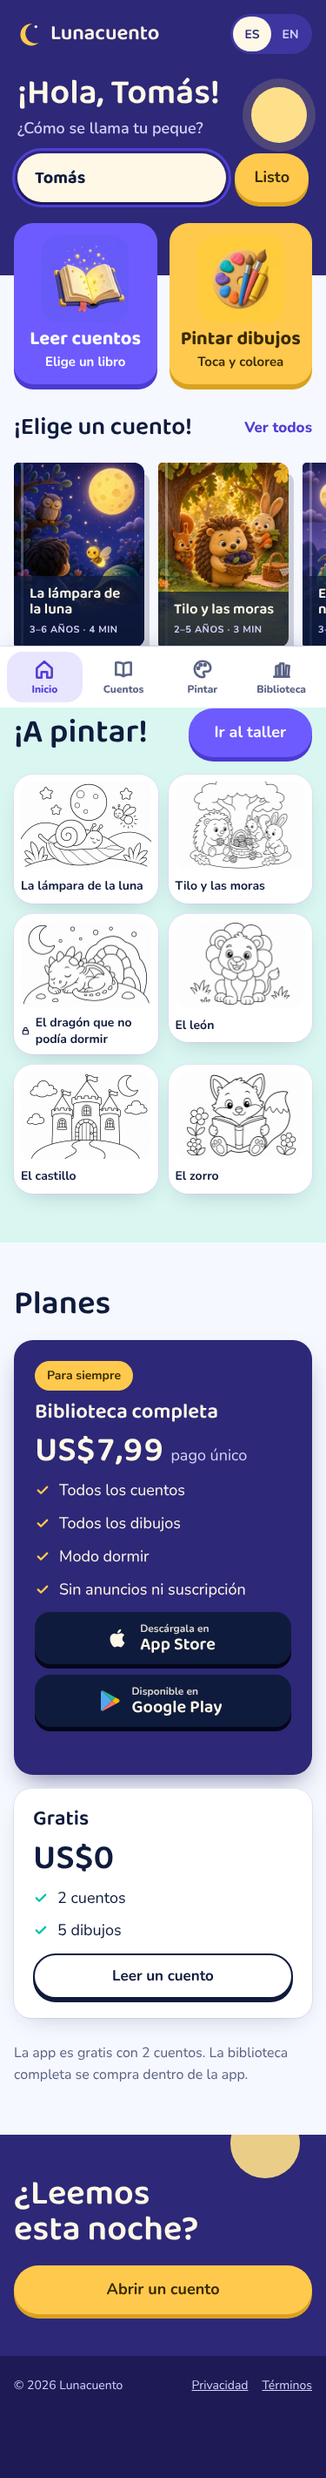
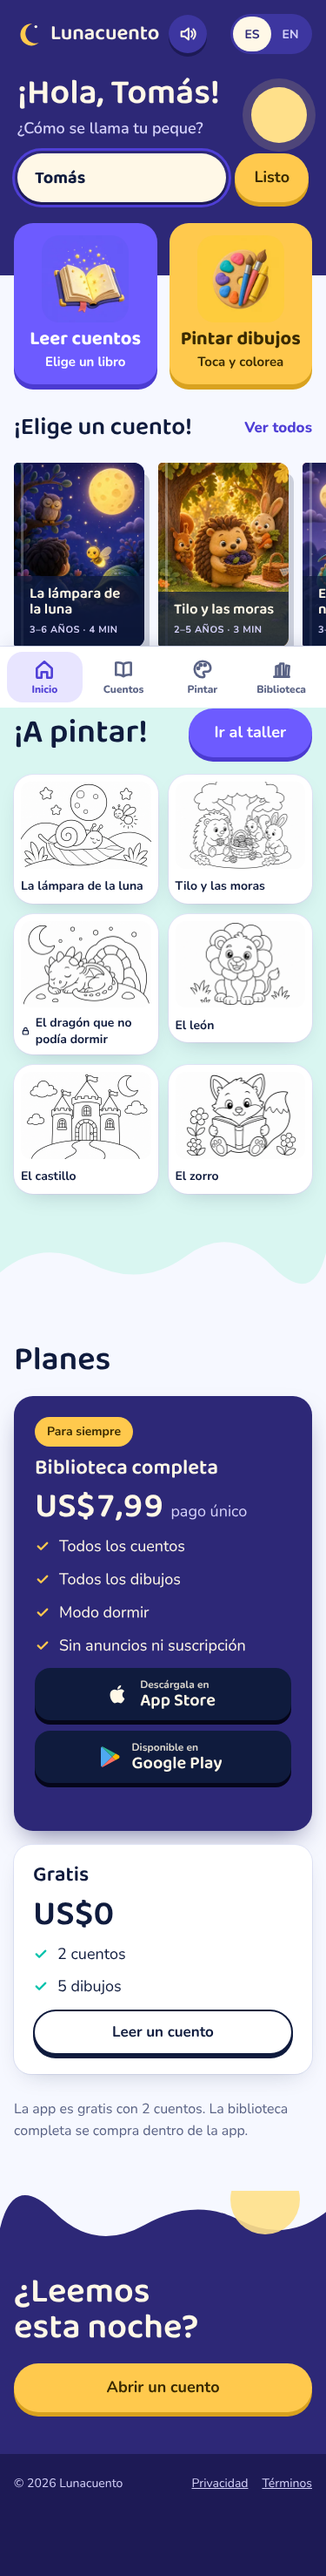
Páginas: presupuesto y prompts (sin generar), final con teclado, encabezado tablet, pruebas de sonido y final, docs
Claude-Session: https://claude.ai/code/session_01NsKeDMnxH8TrdVoQXG24KL

diff --git a/src/app/globals.css b/src/app/globals.css
@@ -232,7 +232,7 @@ a.bk:active { transform: translateY(-6px) rotate(-1deg); }
 .final { background: var(--night); color: var(--moon-text); position: relative; overflow: hidden; }
 .final .wrap { display: flex; flex-wrap: wrap; align-items: center; justify-content: space-between; gap: 28px; padding-top: 90px; padding-bottom: 90px; position: relative; z-index: 1; }
 .final h2 { font-size: clamp(40px, 5.4vw, 64px); line-height: 1.02; }
-.final .moon { position: absolute; right: 8%; top: -40px; width: 120px; height: 120px; border-radius: 50%; background: var(--moon); opacity: .9; }
+.final .moon { position: absolute; right: 30%; top: 96px; width: 120px; height: 120px; border-radius: 50%; background: var(--moon); opacity: .9; }
 .site-footer { background: var(--night-3); color: var(--moon-muted); }
 .site-footer .wrap { display: flex; flex-wrap: wrap; gap: 24px; justify-content: space-between; align-items: center; padding-top: 28px; padding-bottom: calc(28px + env(safe-area-inset-bottom, 0px)); font-size: 15px; }
 .site-footer nav { display: flex; gap: 24px; }
@@ -291,7 +291,7 @@ a.bk:active { transform: translateY(-6px) rotate(-1deg); }
   .plan .price { font-size: 40px; }
   .final .wrap { padding-top: 48px; padding-bottom: 48px; flex-direction: column; align-items: stretch; gap: 20px; }
   .final .btn { width: 100%; min-height: 56px; font-size: 18px; }
-  .final .moon { width: 80px; height: 80px; top: -30px; }
+  .final .moon { width: 80px; height: 80px; top: 64px; right: 6%; }
   .site-footer .wrap { gap: 8px 16px; font-size: 14px; padding-top: 12px; padding-bottom: calc(12px + env(safe-area-inset-bottom, 0px)); }
   .site-footer nav { gap: 16px; }
 }
@@ -678,3 +678,6 @@ a.bk:hover::after, a.bk:focus-visible::after, a.bk:active::after { opacity: .95;
   .chip[aria-pressed="true"] { background: var(--violet); border-color: var(--violet); }
   .shelf-more .btn-line { background: #FFFDF8; color: #0F1B3D; box-shadow: 0 4px 0 #6B6FD0; border-color: #0F1B3D; }
 }
+
+/* Tablet: el encabezado con el botón de sonido no debe desbordar */
+@media (min-width: 761px) and (max-width: 1000px) { .site-header .bar { gap: 14px; } .navlinks { gap: 16px; font-size: 16px; } }

diff --git a/src/components/Reader.tsx b/src/components/Reader.tsx
@@ -44,10 +44,19 @@ const easeOut = (x: number) => 1 - Math.pow(1 - x, 3);
  */
 function Art({ story, index, where, lang }: { story: Story; index: number; where: string; lang: Lang }) {
   const page = story.pages[index];
+  const gen = ilu(`pagina-${story.id}-${index + 1}`); // generada con gpt-image-2 (grupo "paginas"); si falta, escena vectorial
   const html = useMemo(
     () => (page.image ? "" : sceneSVG(page.scene, `${story.id}-${index}`, `${where}-${story.id}-${index}`)),
     [page, story.id, index, where],
   );
+  if (gen && !page.image) {
+    return (
+      <div className="art">
+        {/* eslint-disable-next-line @next/next/no-img-element */}
+        <img src={gen.src} srcSet={gen.srcset} sizes="(min-width: 900px) 560px, 100vw" width={gen.width} height={gen.height} alt="" loading="eager" decoding="async" />
+      </div>
+    );
+  }
   if (page.image) {
     return (
       <div className="art">
@@ -264,7 +273,16 @@ export default function Reader({ lang, t, story }: { lang: Lang; t: Dict; story:
 
   /** Pasa de página con animación (flechas, teclado, toque en los lados, narración). */
   const turnPage = useCallback((dir: Dir, auto = false) => {
-    if (turnRef.current || !canTurn(dir)) return false;
+    if (turnRef.current) return false;
+    if (dir === 1 && pageRef.current >= last) {
+      // Pasar de la última página (flecha, toque o fin de la narración) abre el final del cuento
+      setPlaying(false);
+      setActive(-1);
+      setFinale(true);
+      playSound("celebrate");
+      return true;
+    }
+    if (!canTurn(dir)) return false;
     if (reduced) {
       playSound("page");
       setActive(-1);
@@ -278,7 +296,7 @@ export default function Reader({ lang, t, story }: { lang: Lang; t: Dict; story:
     // Cuando la hoja ya está montada (useLayoutEffect de abajo), arranca la animación.
     requestAnimationFrame(() => settle(1));
     return true;
-  }, [canTurn, reduced, settle]);
+  }, [canTurn, reduced, settle, last]);
 
   // Posición inicial de la hoja al montarse (antes de pintar, sin parpadeo).
   useLayoutEffect(() => {

diff --git a/src/components/reader.css b/src/components/reader.css
@@ -174,6 +174,10 @@
   .r-fav { display: none; }
   .r-sleep-m[aria-pressed="true"] { background: var(--moon-text); color: var(--night); }
   .r-timer-m { display: inline-flex; flex: none; }
+  .r-timer-m select { min-height: 44px; max-width: 92px; padding: 0 8px; font-size: 14px; text-overflow: ellipsis; }
+  .r-top { gap: 8px; }
+  .r-top .round { width: 44px; height: 44px; flex: none; }
+  .r-title h1 { overflow: hidden; text-overflow: ellipsis; white-space: nowrap; }
   .stage { padding: 6px 16px; align-items: flex-start; }
   .book { width: 100%; transform: none !important; }
   .spread { display: none; }

diff --git a/docs/presupuesto-ilustraciones.md b/docs/presupuesto-ilustraciones.md
@@ -47,3 +47,23 @@ Cota pesimista del plan B (si las imágenes no cuadradas costaran como las cuadr
 1. Tu autorización explícita (y qué plan: A, B o C, y el tope).
 2. Confirmar el precio vigente (o permitir `platform.openai.com` en la red de la sesión para que lo lea).
 3. Poder llamar a la API: **esta sesión no resuelve `api.openai.com` y no tiene `OPENAI_API_KEY`**. O bien permites ese host y añades la clave como secreto del entorno, o yo dejo listo `scripts/generar-ilustraciones.mjs` y lo ejecutas tú en tu máquina.
+
+## Ronda 2 · Ilustraciones de las páginas (18 imágenes) — PENDIENTE DE AUTORIZACIÓN
+
+**No se ha generado nada.** Los prompts ya están en `scripts/ilustraciones.config.mjs` (grupo `paginas`, mismo estilo de lana/arcilla que el resto).
+
+| Qué | Cantidad | Tamaño | Calidad | Estimado |
+|---|---|---|---|---|
+| Páginas de 3 cuentos (La lámpara de la luna, Tilo y las moras, El dragón que no podía dormir) × 6 páginas | 18 | 1536×1024 | alta | 18 × 0,165 = **US$2,97** |
+| Con 2× reintentos | | | | US$5,94 |
+| Cota pesimista (si costaran como cuadradas) | | | | 18 × 0,211 = US$3,80 |
+
+El contador del script lleva ya ~US$2,48 de la ronda anterior (+0,65 de las pruebas): el tope de US$8 alcanza para las 18 sin reintentos y para unos 10 reintentos. Precios **no verificados**: compáralos con tu facturación y ajusta `--factor-costo`.
+
+Cuando lo autorices:
+
+```bash
+node --env-file=.env.local scripts/generar-ilustraciones.mjs --solo paginas
+```
+
+(En una sesión de Claude Code con la clave como network secret: añade `--clave-por-proxy`.) Salen a `public/ilustraciones/pagina-<cuento>-<n>.webp` + manifiesto. El lector ya usa estas imágenes en cuanto existen y, mientras tanto, muestra la escena vectorial provisoria.

diff --git a/CLAUDE.md b/CLAUDE.md
@@ -120,3 +120,12 @@ Tokens (modo claro; el modo oscuro usa los mismos nombres en `globals.css`):
 
 - Cada cuento: 6 páginas, ES y EN, un valor/tema, rango de edad, minutos de lectura, color de tapa, página de portada y dibujo para colorear.
 - Revisar cada texto antes de publicarlo: frases cortas, vocabulario simple, final tranquilo (son cuentos para antes de dormir).
+
+## Emoción y acabado premium (ronda 5)
+
+- **Sonido** (`src/lib/sound.ts`, `docs/sonidos.md`): todo sintetizado con Web Audio (sin archivos ni licencias de terceros). Nada suena antes de la primera interacción; botón on/off en el encabezado y el lector (`lc_sound`). Ganchos: `data-sound` en botones, `playSound(nombre)`.
+- **Apertura del libro**: al tocar una portada del estante, `BookFlyer` la hace volar al centro; el lector la recibe cerrada, flota ~1,1 s con brillo y la tapa se abre en ~1,4 s con destellos. Con `prefers-reduced-motion`: sin vuelo, sin giros.
+- **Lector con escenografía** (`ReaderScene`): fondo nocturno desde la portada, viñeta, estrellas, luciérnagas, mesa de madera; modo dormir apaga la escena. Al terminar: pantalla final con "Leer otra vez" y "Colorear".
+- **Modo oscuro = noche mágica**: secciones claras pasan a azul-violeta con estrellas; tarjetas claras con brillo suave.
+- **Nitidez**: `scripts/ampliar-ilustraciones.mjs` (upscaler local gratuito, ver `docs/ampliar-ilustraciones.md`).
+- **Páginas ilustradas**: grupo `paginas` (18 imágenes) preparado en `scripts/ilustraciones.config.mjs`, **sin generar**; el lector las usa si existen (`pagina-<cuento>-<n>`). Presupuesto en `docs/presupuesto-ilustraciones.md`.
